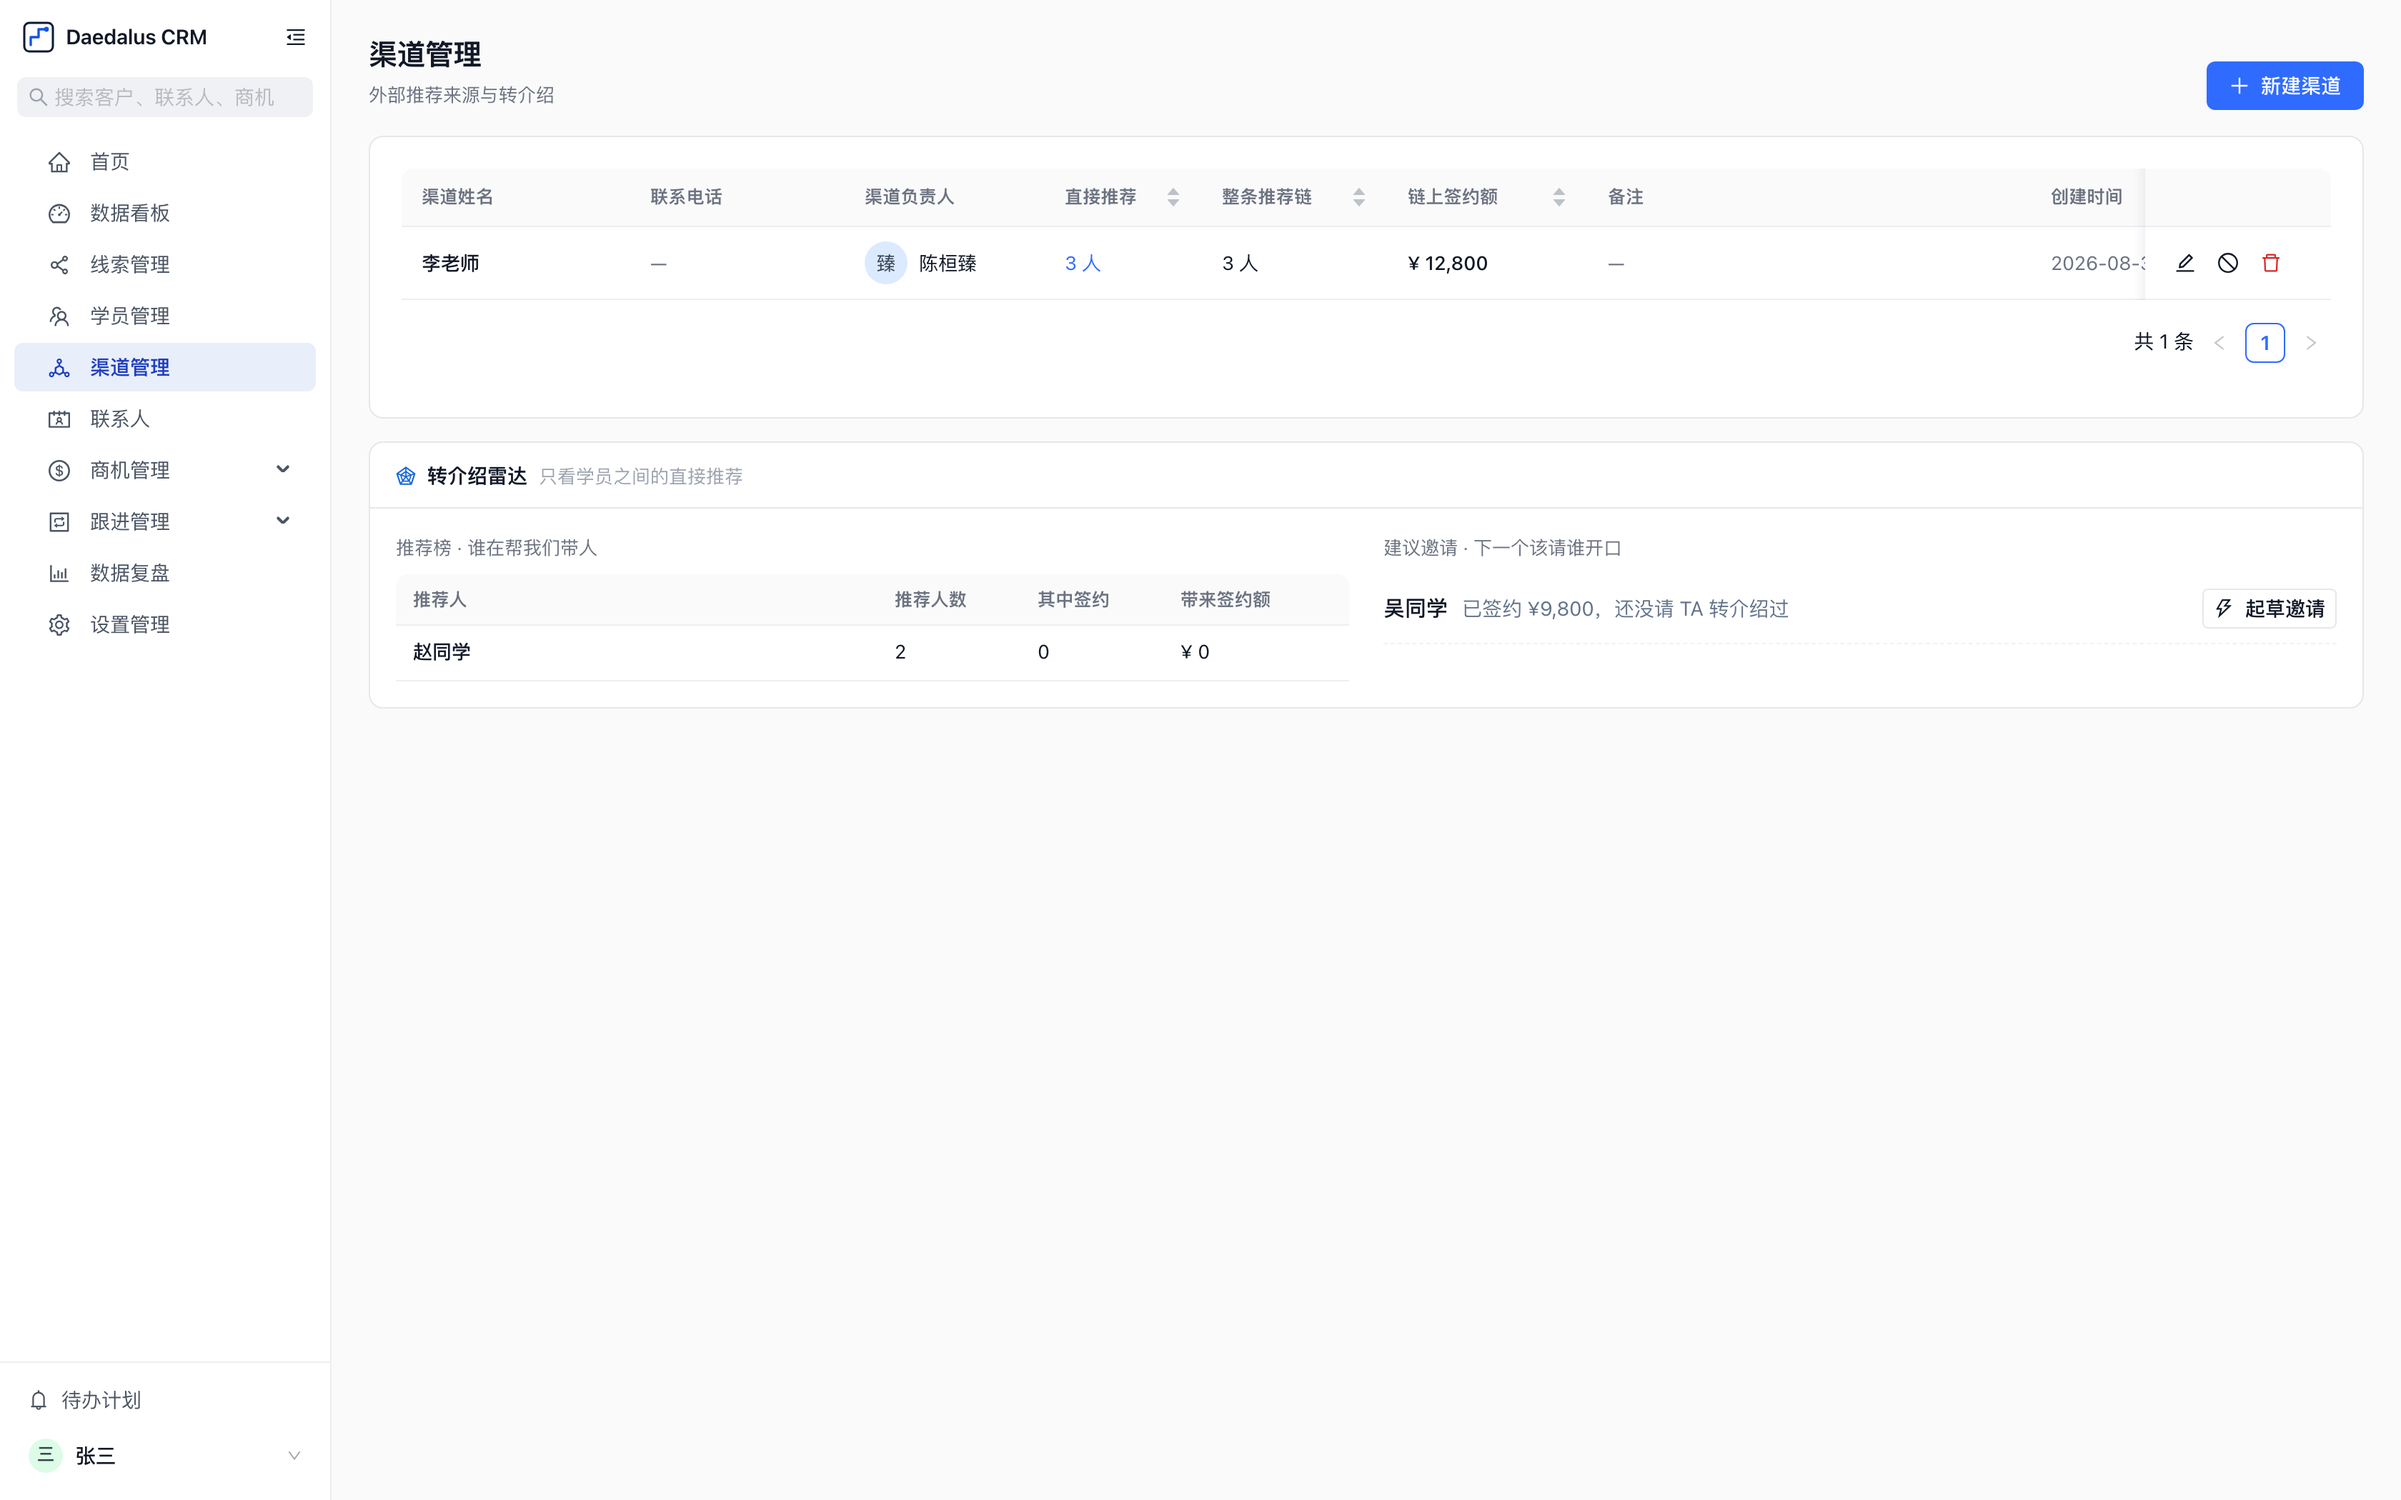
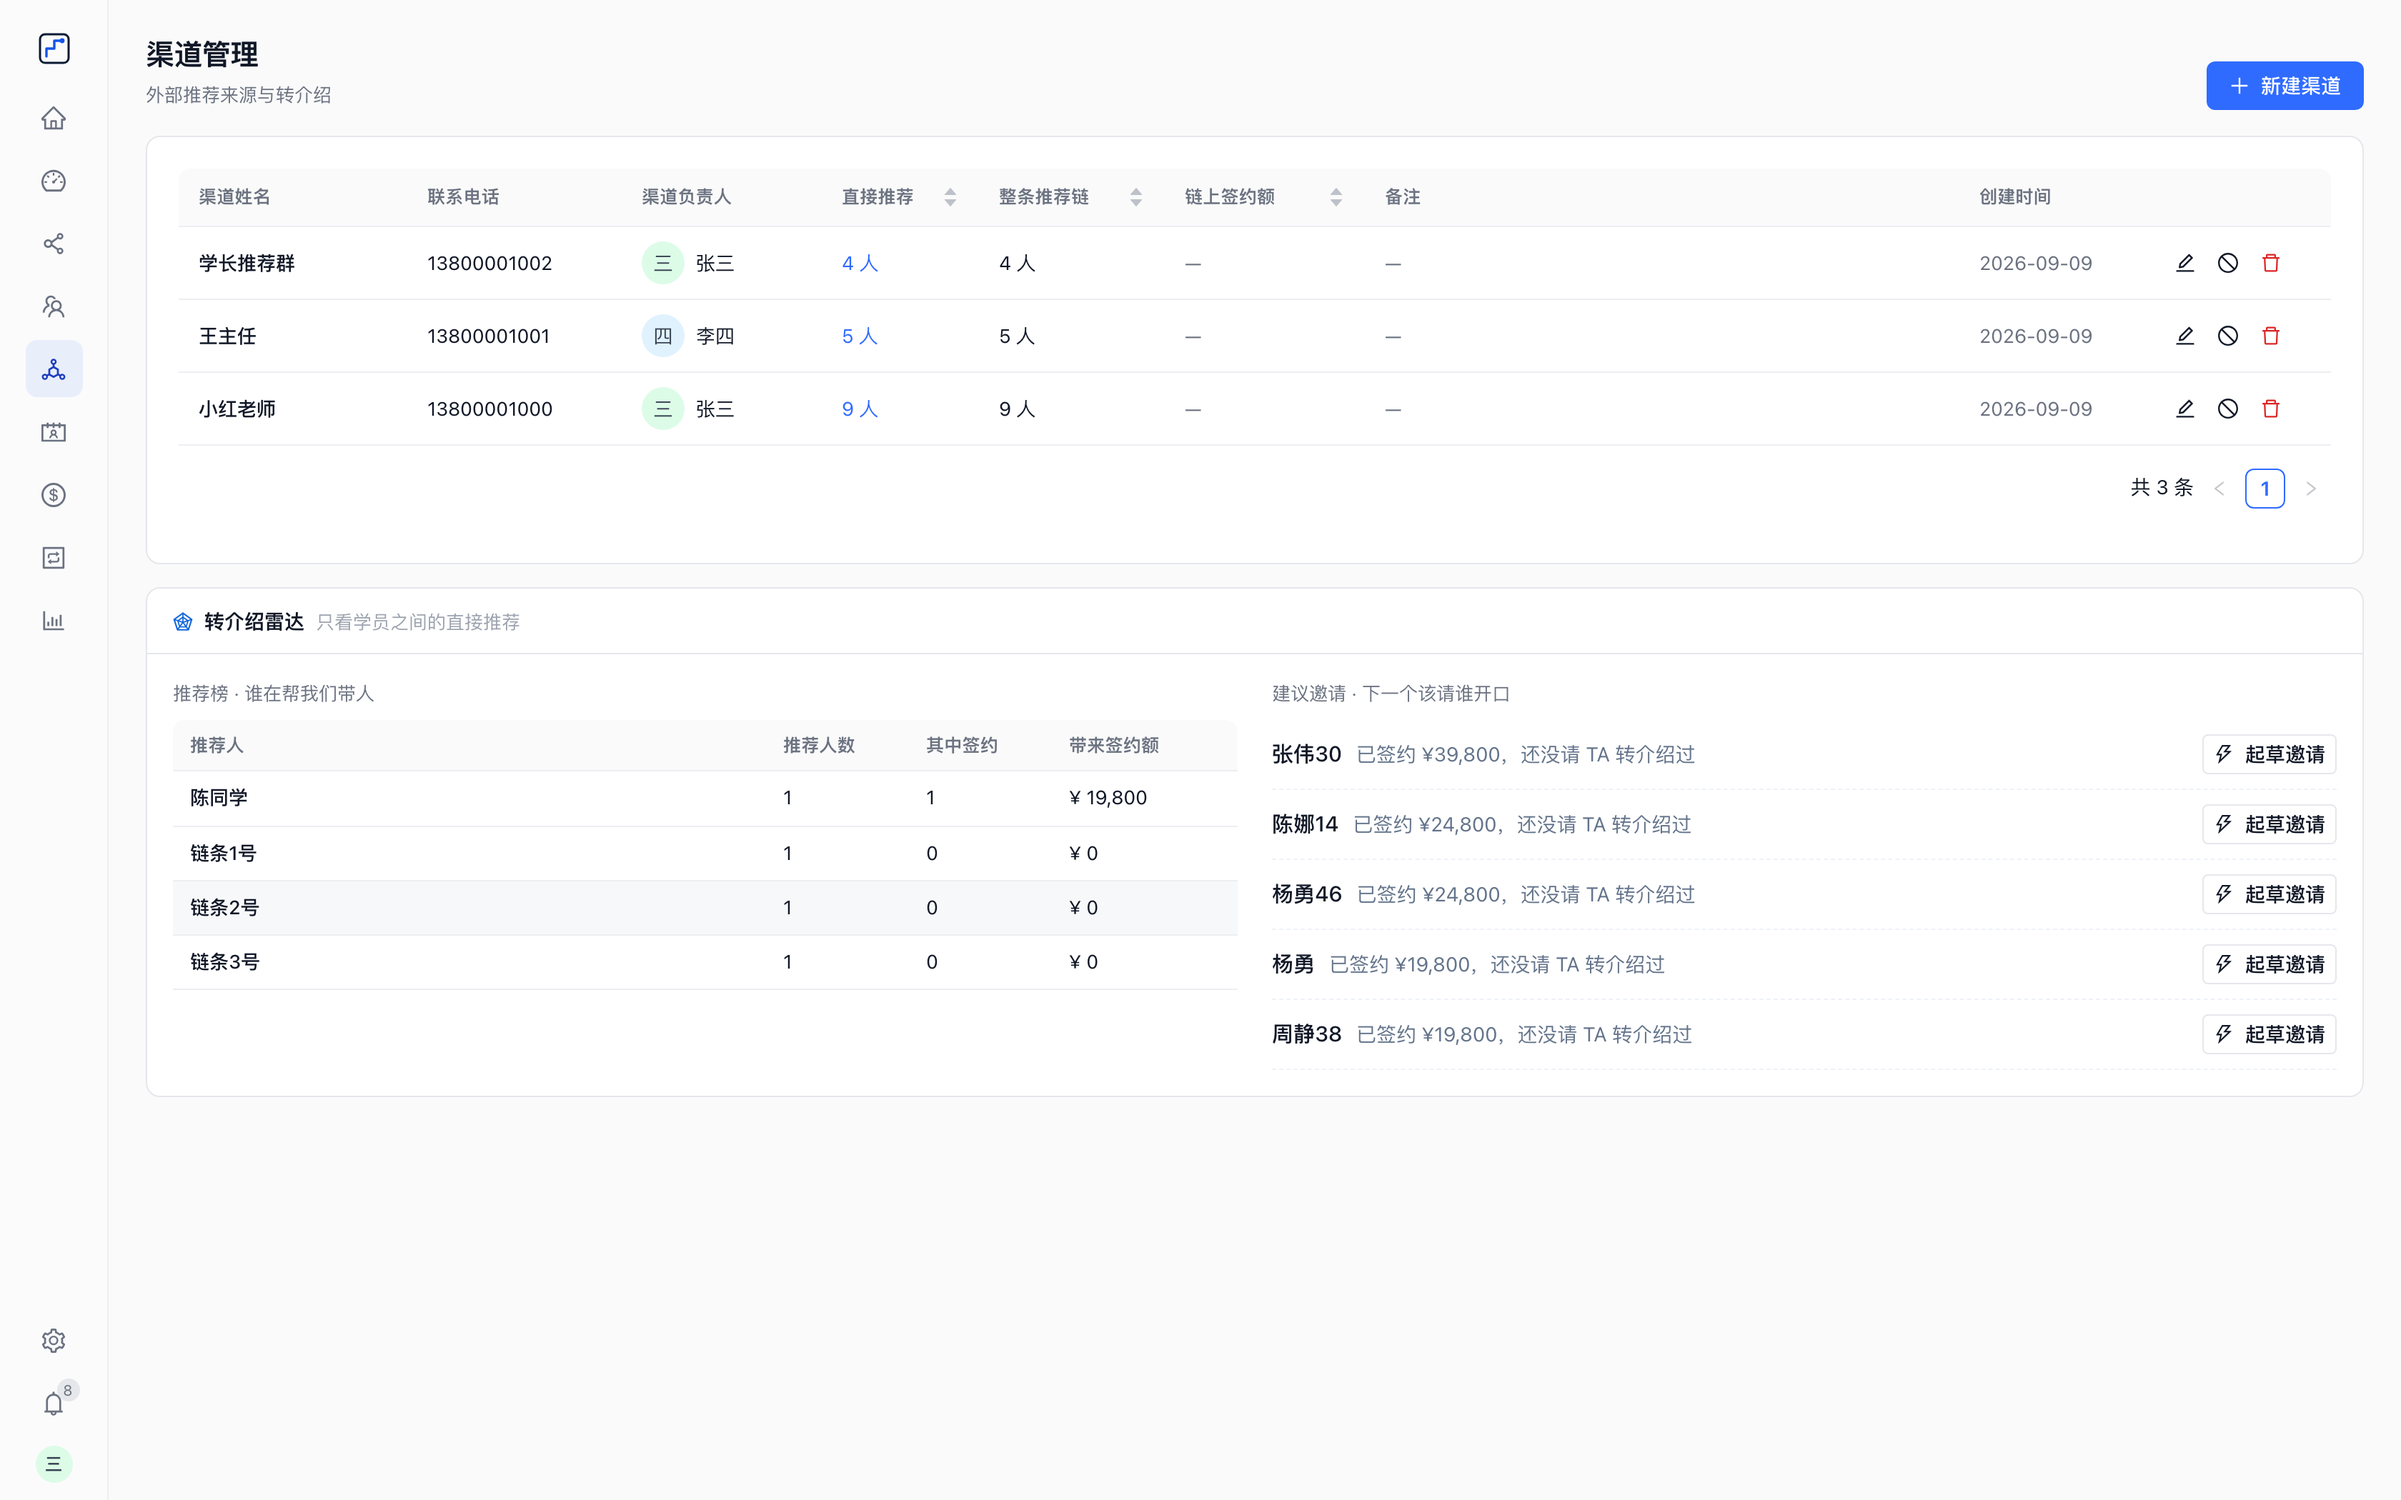
docs: 截图和文案跟上三栏壳
13 张截图重拍（登录页没变所以没动）。原来那批是 9/10 拍的，三栏壳 9/15 才上，
README 里展示的是一个已经不存在的界面。拍法：manual.db 那个演示库 + 3300 端口 +
scripts/shoot.mjs，1680×1050 @2x。

文案上把两个"三栏"分开：外面那三栏是壳（图标栏 / 当下栏 / 正文），
里面那三栏是学员详情页自己的分栏。两者同名会让人读不懂，现在前者叫"三栏壳"，
后者叫"记录页"。核心能力和路线图各补一条。

diff --git a/README.md b/README.md
@@ -36,6 +36,7 @@
 - ✅ 推荐归属：谁介绍的、业绩算谁的，录入时固化，改上游不追溯改写下游
 - ✅ 手机号查重、同金额签约二次确认、两人同时编辑按字段合并、所有写操作留痕
 - ✅ 模型无关：DeepSeek / OpenAI / 本地 Ollama / 任意中转站，设置页填一下就行
+- ✅ 三栏界面：中间一栏永远是「当下该看的」——首页是今天要跟的人和待办
 - ✅ 默认按教培场景措辞，改个设置就能用于任何销售团队
 
 <br/>
@@ -100,6 +101,12 @@ Windows 与 Intel Mac 的包还没有，那两种机器先用自部署版。
 
 ## ✨ 核心能力
 
+### 三栏：图标栏、当下栏、正文
+
+左边 76px 只放图标，鼠标停住才出名字；中间一栏放这个模块**当下最该看的东西**——首页是「今天」（今天要跟的人和到期的待办，逾期标红，勾一下就完成），学员页是最近跟进的 50 位（点一行右边就出档案），设置页是五个设置项；右边才是正文。桌面端再把系统标题栏去掉，红黄绿钮嵌进图标栏顶上。
+
+（和下面「记录页」那三栏不是一回事：那是学员详情页**内部**的分栏。）
+
 ### 首页是一个 agent，不是一个搜索框
 
 交互照 Claude Code / Codex：Enter 发送，正在答时再问自动排队，Esc 打断。背后是一个 ReAct 循环，模型自己决定调哪个只读工具——搜客户、读档案、查指标、看盯盘清单——每次调用一行看得见，答完折成一句摘要。回答逐字流出，句末圆标能点回那条记录。多轮有上下文，「他呢」「那再约一下」接得住。
@@ -108,7 +115,7 @@ Windows 与 Intel Mac 的包还没有，那两种机器先用自部署版。
 
 让它改状态、改档案、记跟进、排计划、新建线索 / 商机 / 签约、改渠道——它给一张**建议卡**，字段就地可改，模型不知道的留空让你补，点确认才写进去。落库走的是和界面完全相同的 server action：查重、成环检查、归属重算、留痕一个都不绕过。每次确认记一条 `ai_apply` 日志。
 
-### 记录页三栏
+### 记录页：档案、时间线、AI 常驻
 
 左边档案点一下就能改；中间一条时间线；顶部速记框粘一段聊天，AI 整理成记录、待办、下次计划，你核对后保存，原文留存供后续简报引用；右侧 AI 常驻，打开谁它已读完谁。
 
@@ -139,7 +146,7 @@ Windows 与 Intel Mac 的包还没有，那两种机器先用自部署版。
 
 ## 🖼 界面
 
-| 客户列表 | 客户详情（三栏） |
+| 客户列表 | 客户详情 |
 |---|---|
 | ![](docs/shots/04-customers.png) | ![](docs/shots/05-customer-detail.png) |
 
@@ -171,7 +178,8 @@ Windows 与 Intel Mac 的包还没有，那两种机器先用自部署版。
 | 方向 | 内容 | 状态 |
 |---|---|---|
 | 对话面与建议卡 | agent 循环、流式回答、引用回跳、多轮上下文、7 种建议卡 | ✅ 已发布 |
-| 记录页三栏 | 档案行内编辑、时间线、速记解析、AI 常驻 | ✅ 已发布 |
+| 记录页 | 档案行内编辑、时间线、速记解析、AI 常驻 | ✅ 已发布 |
+| 三栏壳 | 图标栏 / 当下栏 / 正文，首页「今天」，桌面端嵌入窗口按钮 | ✅ 已发布 |
 | 托管版底座 | 多租户、注册与免费额度、试用、订阅、运营台、桌面端 | ✅ 已发布 |
 | 列表页 | 行内编辑、可保存的视图、筛选 chip、右侧滑出面板 | 🔜 计划中 |
 | ⌘K 与全站动画 | 命令面板承接「问一位 / 问一个数 / 跳转」 | 🔜 计划中 |

diff --git a/README_EN.md b/README_EN.md
@@ -93,6 +93,12 @@ Builds are produced by [GitHub Actions](https://github.com/BeckY824/daedalus-crm
 
 ## ✨ Key features
 
+### Three columns: icon rail, context, content
+
+A 76px rail on the left holds icons only — names appear on hover. The middle column holds whatever that module makes you look at **right now**: on the home page it is Today (who to follow up with and what is due, overdue in red, tick to complete); on the students page it is the 50 most recently contacted (click a row and the profile opens on the right); in settings it is the five setting pages. The content itself lives on the right. On desktop the system title bar is removed and the window buttons sit at the top of the rail.
+
+(Not to be confused with the record page's three columns below — those are *inside* the student detail view.)
+
 ### The home page is an agent, not a search box
 
 Interaction modeled on Claude Code / Codex: Enter to send, follow-ups queue while it's answering, Esc to interrupt. Underneath is a ReAct loop where the model picks read-only tools — search customers, read a record, query a metric, check the watchlist — each call shown as a line, collapsed to a one-line summary when done. Answers stream token by token with citation chips that jump back to the source record. Multi-turn context is kept, so "what about him?" just works.
@@ -101,7 +107,7 @@ Interaction modeled on Claude Code / Codex: Enter to send, follow-ups queue whil
 
 Ask it to change a status or profile field, log a follow-up, schedule a plan, create a lead / deal / contract, or edit a channel — it returns a **proposal card**. Fields are editable in place; unknown ones are left blank for you. Confirming runs the exact same server actions the UI uses: dedup, cycle checks, attribution recompute and audit logging are never bypassed. Every confirmation is logged as `ai_apply`.
 
-### Three-column record page
+### Record page: profile, timeline, docked AI
 
 Profile on the left, editable with a click; a single timeline in the middle; a quick-note box on top where you paste a chat and AI drafts the follow-up, tasks and next plan for you to review — the original text is kept for later briefings. AI stays docked on the right and has already read the record you opened.
 
@@ -132,7 +138,7 @@ Configure a model list in Settings (or pull it from the endpoint) and switch rig
 
 ## 🖼 Screens
 
-| Customers | Record page (three columns) |
+| Customers | Record page |
 |---|---|
 | ![](docs/shots/04-customers.png) | ![](docs/shots/05-customer-detail.png) |
 
@@ -165,6 +171,7 @@ Ordered by "someone actually needs it". To push an item, [open an issue](https:/
 |---|---|---|
 | Conversation & proposal cards | agent loop, streaming, citations, multi-turn context, 7 card types | ✅ Shipped |
 | Record page | inline profile editing, timeline, quick-note parsing, docked AI | ✅ Shipped |
+| Three-column shell | icon rail / context column / content, a Today column on the home page, window buttons embedded on desktop | ✅ Shipped |
 | Hosting | multi-tenant, sign-up and free credits, trials, subscriptions, ops console, desktop apps | ✅ Shipped |
 | List pages | inline editing, saved views, filter chips, side drawer | 🔜 Planned |
 | ⌘K & motion | command palette for "ask about / ask a number / go to" | 🔜 Planned |

diff --git a/ROADMAP.md b/ROADMAP.md
@@ -19,6 +19,10 @@
 
 ## 已发布
 
+- **v0.20 三栏壳**：图标栏（76px，只放图标）/ 当下栏（352px）/ 正文。中栏放这个模块当下最该看的东西——
+  首页是「今天」（今天要跟的人和到期的待办，逾期标红，勾一下就完成），学员页是最近跟进的 50 位，
+  设置页是五个设置项。桌面端去掉系统标题栏，红黄绿钮嵌进图标栏顶上。
+
 - **v0.3**：首页提问框（点到客户名出简报、否则问数据，两个快捷键替人挑客户）；速记原文留存到 FollowUpSource，简报 / 唤醒话术 / 盯盘解读引用原话；盯盘清单一键 AI 解读。仍然全部只起草不落库。
 
 - **v0.2.1**：零配置启动——不传任何变量也能 `docker run`，会话密钥自动生成存卷，初始密码首启随机生成打印在日志。
